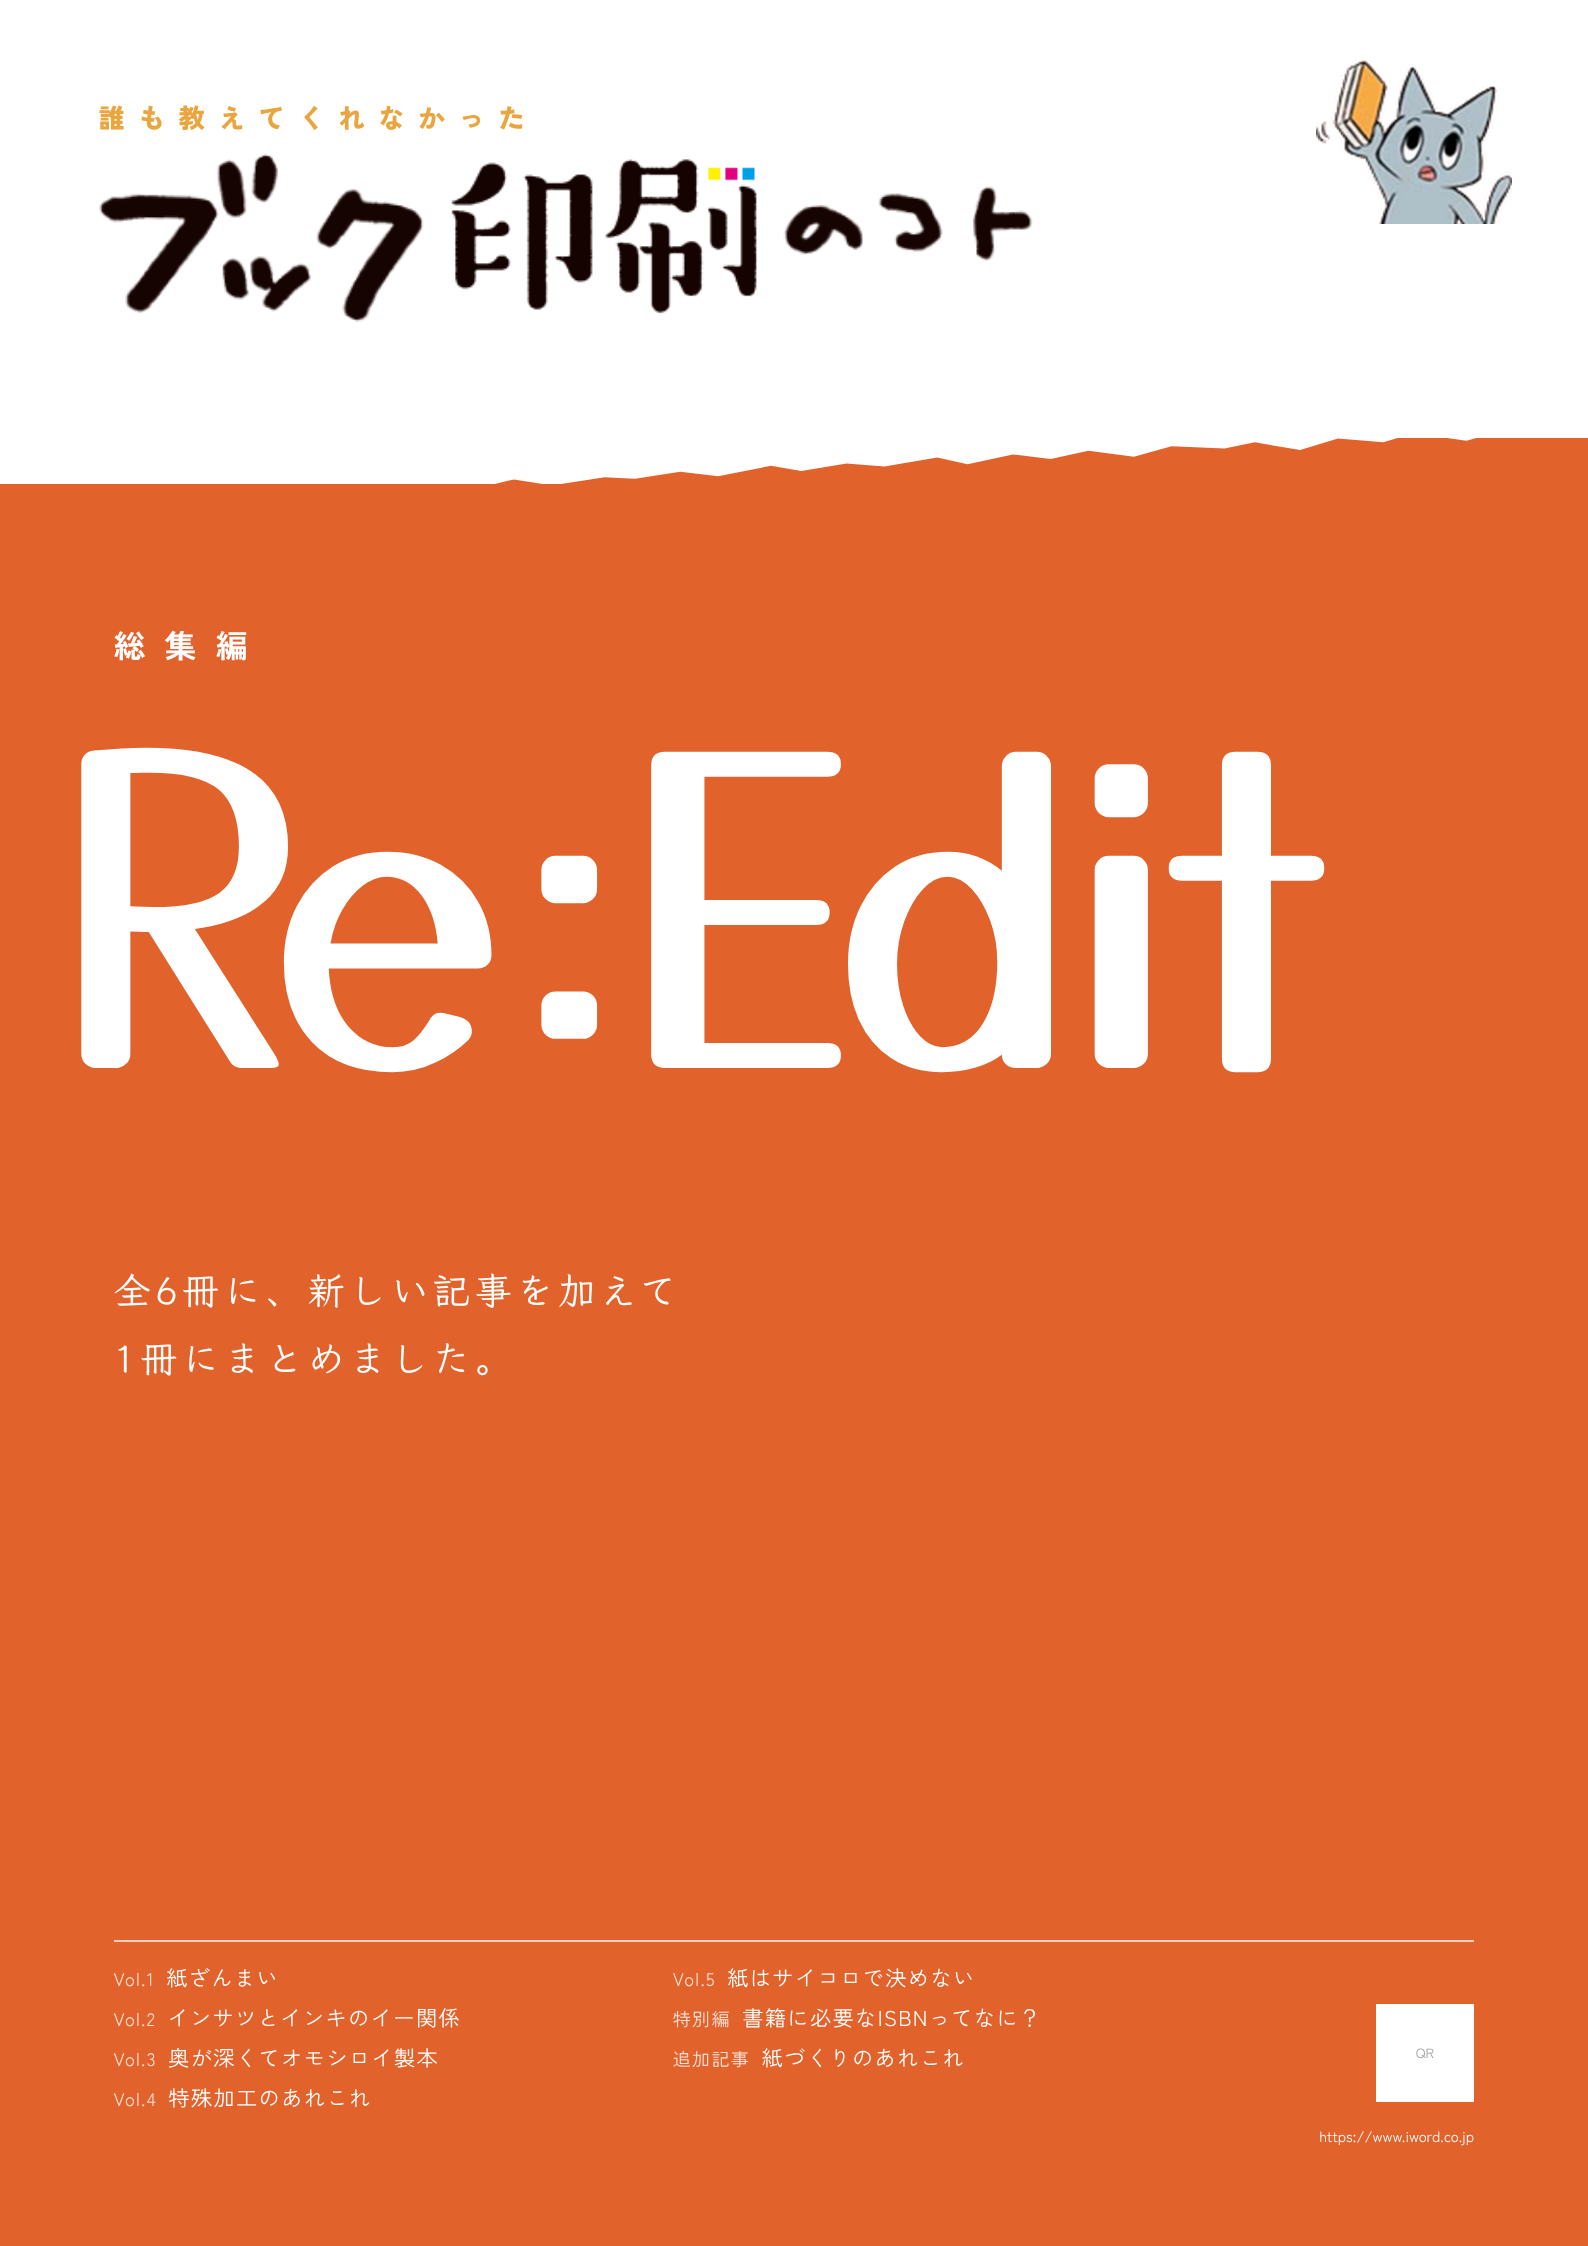
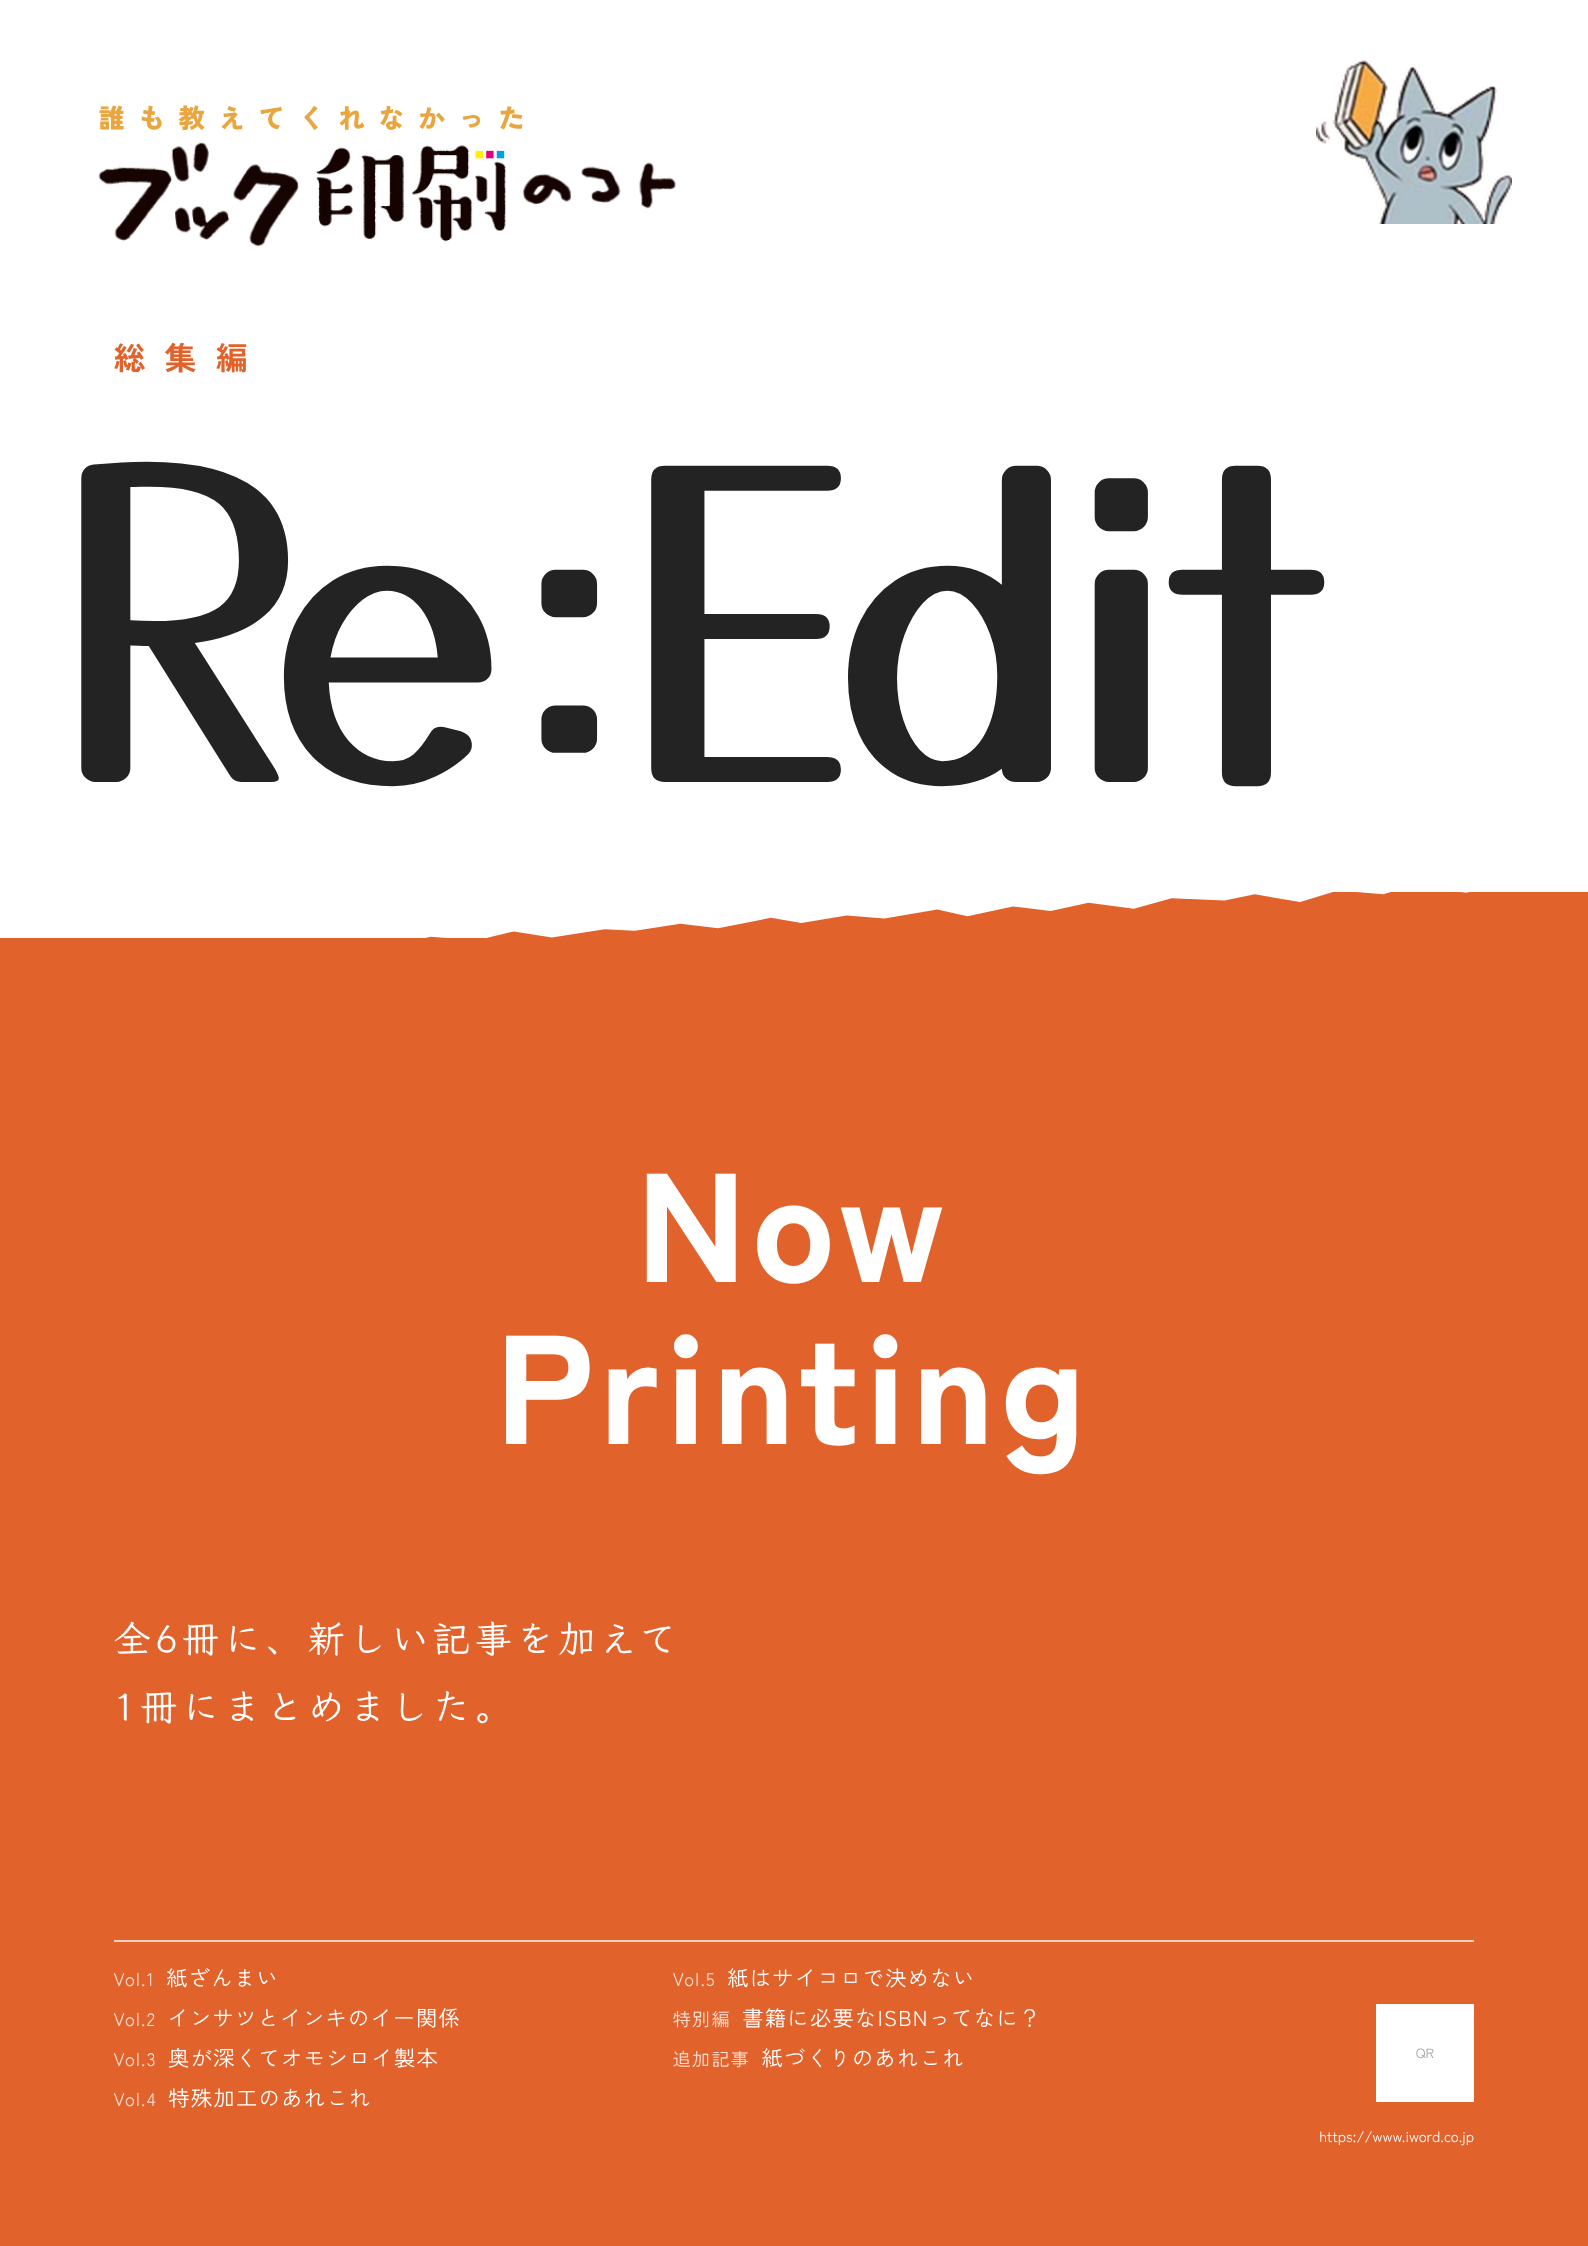
Re:Edit 表紙：ロゴを縮小、タイトルを白地に、Now Printing を追加
Claude-Session: https://claude.ai/code/session_013USWM13maFLw8nWynxtzKi

diff --git a/flyer/tokyo/reedit_cover.html b/flyer/tokyo/reedit_cover.html
@@ -13,13 +13,14 @@
 body{font-family:"Zen Kaku Gothic New",sans-serif;color:var(--ink);background:#888;-webkit-print-color-adjust:exact;print-color-adjust:exact}
 .cover{width:210mm;height:297mm;position:relative;overflow:hidden;background:#fff}
 .kicker{position:absolute;top:13mm;left:13mm;font-size:10pt;font-weight:900;letter-spacing:.5em;color:var(--mustard)}
-.logo{position:absolute;top:19mm;left:10mm;width:132mm}
+.logo{position:absolute;top:18mm;left:11mm;width:82mm}
 .mascot{position:absolute;top:8mm;right:10mm;width:26mm}
-.field{position:absolute;left:0;right:0;top:58mm;bottom:0;background:var(--orange)}
-.torn{position:absolute;left:0;top:52mm;width:210mm;height:12mm;z-index:2}
-.sou{position:absolute;top:82mm;left:15mm;color:#fff;font-size:12pt;font-weight:700;letter-spacing:.6em}
-.re{position:absolute;top:90mm;left:8mm;color:#fff;font-family:"Yusei Magic",sans-serif;font-size:156pt;line-height:1;letter-spacing:-.01em;white-space:nowrap}
-.lead{position:absolute;top:166mm;left:15mm;color:#fff;font-family:"Klee One",cursive;font-size:14pt;line-height:1.8;letter-spacing:.12em}
+.field{position:absolute;left:0;right:0;top:118mm;bottom:0;background:var(--orange)}
+.torn{position:absolute;left:0;top:112mm;width:210mm;height:12mm;z-index:2}
+.sou{position:absolute;top:44mm;left:15mm;color:var(--orange);font-size:12pt;font-weight:700;letter-spacing:.6em}
+.re{position:absolute;top:52mm;left:8mm;color:var(--ink);font-family:"Yusei Magic",sans-serif;font-size:156pt;line-height:1;letter-spacing:-.01em;white-space:nowrap}
+.now{position:absolute;top:150mm;left:0;right:0;text-align:center;color:#fff;font-weight:900;font-size:58pt;line-height:1.05;letter-spacing:.04em}
+.lead{position:absolute;top:212mm;left:15mm;color:#fff;font-family:"Klee One",cursive;font-size:14pt;line-height:1.8;letter-spacing:.12em}
 .rule{position:absolute;left:15mm;right:15mm;bottom:40mm;border-top:.3mm solid rgba(255,255,255,.7)}
 .files{position:absolute;left:15mm;bottom:17mm;color:#fff;font-size:8pt;line-height:1.85;letter-spacing:.06em;columns:2;column-gap:8mm;width:140mm}
 .files li{list-style:none;break-inside:avoid}
@@ -39,6 +40,7 @@ body{font-family:"Zen Kaku Gothic New",sans-serif;color:var(--ink);background:#8
 
   <span class="sou">総集編</span>
   <span class="re">Re:Edit</span>
+  <p class="now">Now<br>Printing</p>
   <p class="lead">全6冊に、新しい記事を加えて<br>1冊にまとめました。</p>
 
   <div class="rule"></div>
